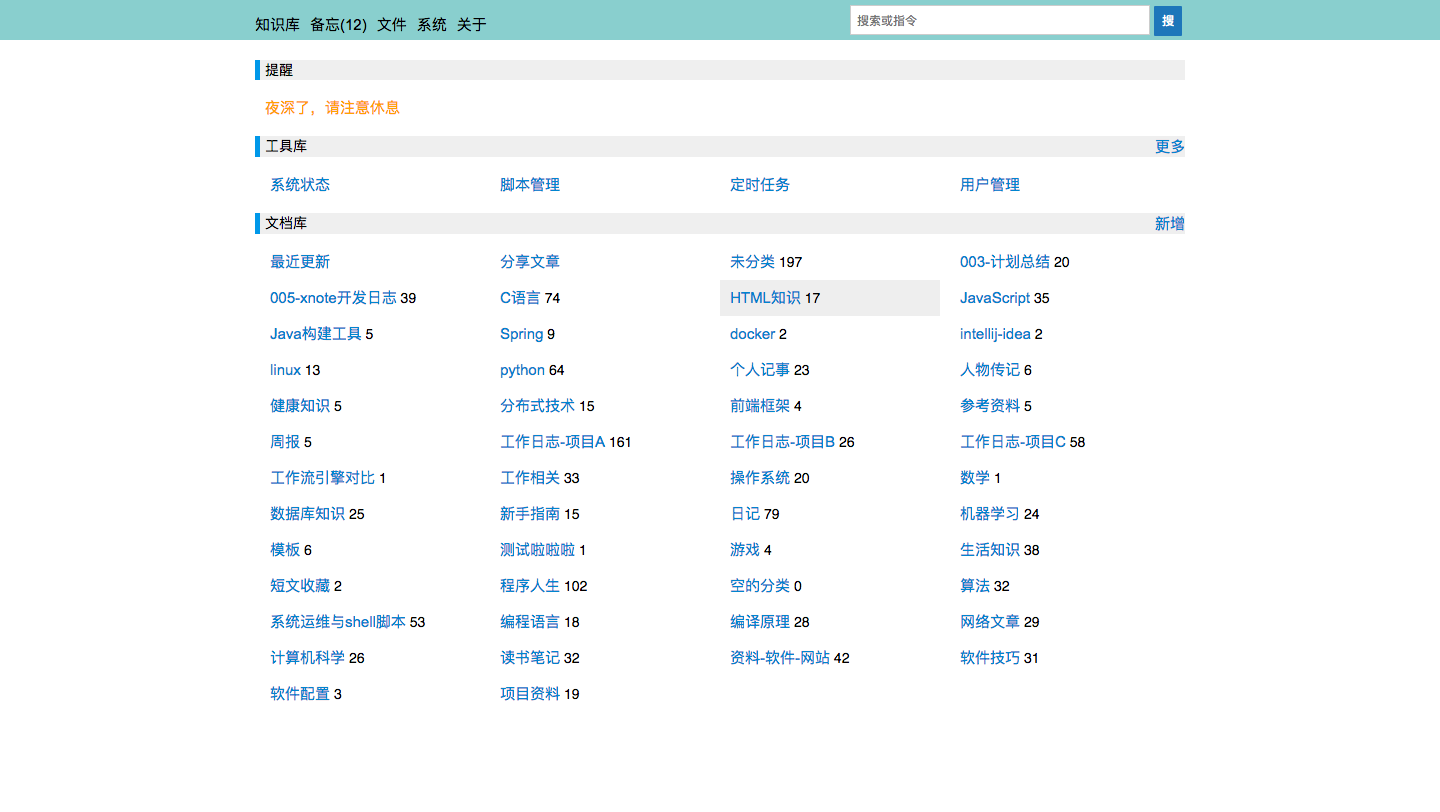
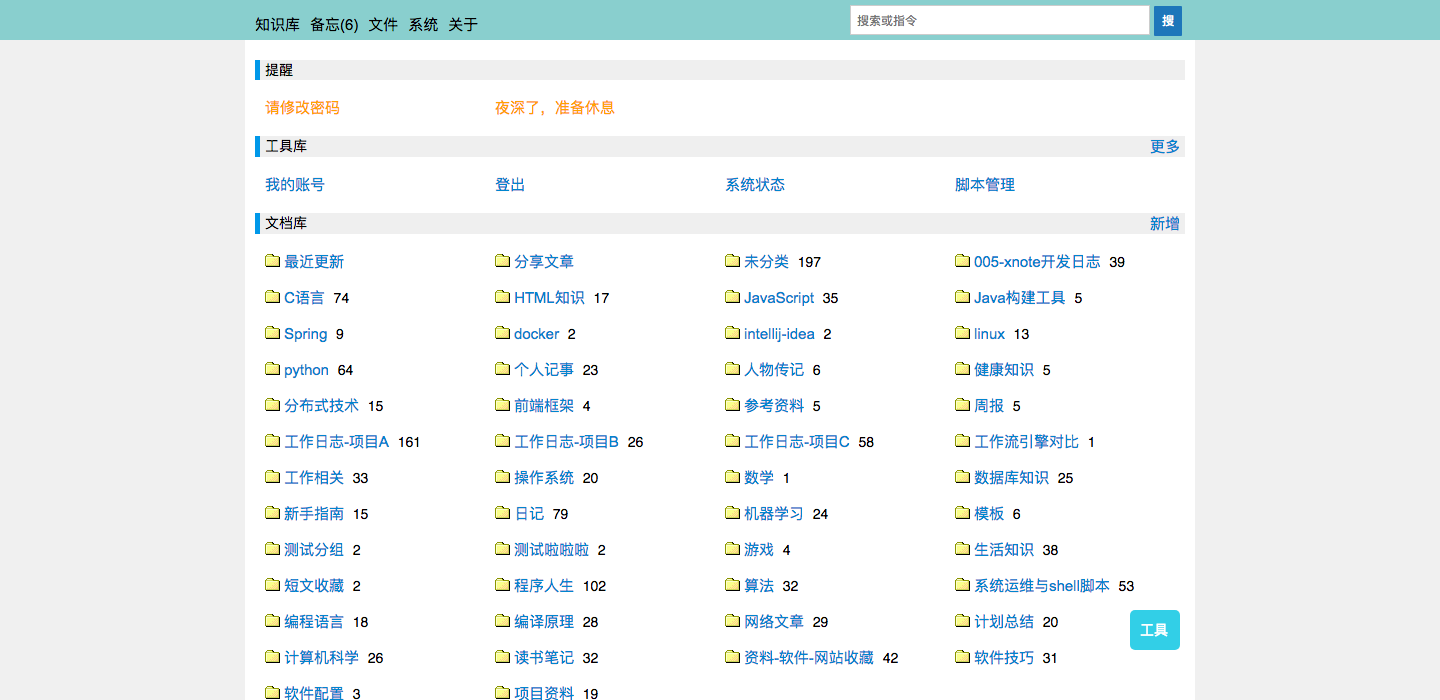
界面优化

diff --git a/handlers/tools/img2gray.html b/handlers/tools/img2gray.html
@@ -2,25 +2,27 @@
 
 {% block body %}
 
-<h3>图片处理</h3>
+    {% set title = "图片灰度化" %}
+    {% include "tools/base_title.html" %}
 
 <div class="col-md-12">
     <input id="file" type="file" onchange="handleFiles(this.files)" class="hide" />
     <input type="button" id="selectBtn" class="btn" value="选择图片"/>
     <input class="btn" id="rotateClockwise" type="button" value="顺时针旋转"/>
-    <input id="larger" type="button" class="btn" value="放大"/>
-    <input id="smaller" type="button" class="btn" value="缩小"/>
+    <input id="larger" type="button" class="btn" value="刷新"/>
     <div class="col-md-12 top-offset-1">
     <table class="table">
         <tr>
-            <th>大小</th>
-            <th>缩放</th>
+            <th>原始大小</th>
+            <th>宽度</th>
+            <th>高度</th>
             <th>灰度化</th>
             <th>旋转</th>
         </tr>
         <tr>
             <td id="imgSize"></td>
-            <td id="scale"></td>
+            <td><input id="width"></td>
+            <td><input id="height"></td>
             <td>灰度化<input type="checkbox" id="gray" ></td>
             <td id="rotate"></td>
         </tr>
@@ -93,25 +95,31 @@ var canvasRotate = 0;
 // var imageNatureWidth = 0;
 // var imageNatureHeight = 0;
 function repaint() {
-    convertOpt.gray = $("#gray")[0].checked;
-    var canvas = document.getElementById("myCanvas");    
-    var image = window.inputImage;
-    // var image = document.getElementById("imageSource");    
+    var newWidth = $("#width").val() - 0;
+    var newHeight = $("#height").val() - 0;
 
-    // var clientWidth = document.body.width;
-    // var clientHeight = clientWidth * 3 / 4;
-    // image.crossOrigin = "Anonymous";
-    
+    convertOpt.gray = $("#gray")[0].checked;
+    var canvas = $("#myCanvas")[0];    
+    var image = window.inputImage;
+    console.log(image.width, image.height);
+
+    if (newWidth <= 0 || newWidth == undefined) {
+        newWidth = image.width;
+    }
+    if (newHeight <= 0 || newHeight == undefined) {
+        newHeight = image.height;
+    }
+
     var resize = false;
     // get 2D render object    
     var context = canvas.getContext("2d");
 
-    canvas.width  = image.width * canvasScale;    
-    canvas.height = image.height * canvasScale;
+    canvas.width  = newWidth;
+    canvas.height = newHeight;
 
     if (window.canvasRotate % 180 != 0) {
-        canvas.width = image.height * canvasScale;
-        canvas.height = image.width * canvasScale;
+        canvas.width = newHeight;
+        canvas.height = newWidth;
         resize = true;
     }
 
@@ -125,8 +133,6 @@ function repaint() {
         context.drawImage(image, 0, 0, image.width, image.height, -canvas.width/2, -canvas.height/2, canvas.width, canvas.height);  
     }
     
-     
-    
     context.translate(0,0);
     if (convertOpt.gray) {    
         // 不能使用跨域图片，否则不能获取图片数据
@@ -138,7 +144,6 @@ function repaint() {
     }
 
     $("#rotate").text(convertOpt.rotate);
-    $("#scale").text(canvasScale.toFixed(2));
     $("#imgSize").text(inputImage.width+"x"+inputImage.height);
 };    
 

diff --git a/static/js/app.js b/static/js/app.js
@@ -32,10 +32,11 @@
     function createTitle() {
       var btn1 = $("<span>").text("Home").addClass("dialog-title-btn dialog-home-btn");
       var btn2 = $("<span>").text("Tools").addClass("dialog-title-btn dialog-tools-btn");
+      var btn3 = $("<span>").text("Refresh").addClass("dialog-title-btn dialog-refresh-btn");
 
       return $("<div>").addClass("dialog-title")
         .append(createCloseBtn())
-        .append(btn1).append(btn2);
+        .append(btn1).append(btn2).append(btn3);
     }
 
     function getBottomBot() {
@@ -89,6 +90,9 @@
       $("body").on("click", ".dialog-tools-btn", function () {
         $(".right-bot iframe").attr("src", "/fs_api/plugins");
       })
+      $("body").on("click", ".dialog-refresh-btn", function () {
+        $(".right-bot iframe")[0].contentWindow.location.reload();
+      })
     }
 
     function getRightBot() {
@@ -109,7 +113,7 @@
             "border": "solid 1px #ccc",
             "z-index": 50,
         }).append(createTitle())
-          .append(createIframe("/"))
+          .append(createIframe("/system/index"))
           .addClass("right-bot");
         rightBot.hide();
         $(document.body).append(rightBot);

diff --git a/handlers/tools/img_merge.html b/handlers/tools/img_merge.html
@@ -5,7 +5,9 @@
 <script type="text/javascript" src="/static/lib/vue/vue-2.2.6.min.js"></script>
 
 <div class="col-md-12">
-    <h3>图片合并</h3>
+    {% set title = "图片合并" %}
+    {% include "tools/base_title.html" %}
+
     <p>点击画布上的方块可以选择图片填充，选择多个图片依次水平往后填充, 编辑完成之后点击预览按钮可以获取去除背景和方格的图片</p>
     <p>设置列数和行数都为1可以用来调整图片大小</p>
 </div>

diff --git a/static/css/common.css b/static/css/common.css
@@ -3,7 +3,7 @@
 }
 
 body {
-    /*background-color: #f0f0f0;*/
+    background-color: #f0f0f0;
     /*font-family: "Open Sans Light",Helvetica,arial,sans-serif;*/
     font: 14px "微软雅黑", "Open Sans Light", Helvetica, "Arial Narrow", HELVETICA; 
     -webkit-text-size-adjust: 100%; 
@@ -403,6 +403,7 @@ li.menu-item:hover {
   overflow: auto;
   box-sizing: border-box;
   margin-left: 0px;
+  background-color: #fff;
   /*border: 1px solid #ccc;*/
 }
 

diff --git a/handlers/tools/img_split.html b/handlers/tools/img_split.html
@@ -4,7 +4,9 @@
 
 <script type="text/javascript" src="/static/lib/vue/vue-2.2.6.min.js"></script>
 
-<h3>图片拆分</h3>
+    {% set title = "图片拆分" %}
+    {% include "tools/base_title.html" %}
+
 <div id="app">
     <input type="file" name="file" id="file" value="选择图片" onchange="handleFiles(this.files)" class="hide" multiple="multiple">
     <div class="col-md-12">

diff --git a/handlers/tools/qrcode.html b/handlers/tools/qrcode.html
@@ -8,7 +8,9 @@
 {% block body %}
 
     <div>
-        <h3>生成二维码</h3>
+    {% set title = "生成二维码" %}
+    {% include "tools/base_title.html" %}
+
         <textarea id="qrcode_input" class="col-md-12" rows=5></textarea>
         <button id="generate">生成</button>
     </div>

diff --git a/handlers/system/modules_info.html b/handlers/system/modules_info.html
@@ -2,8 +2,10 @@
 
 {% block body %}
 
+    {% set title = "模块信息" %}
+    {% include "tools/base_title.html" %}
+
     <div class="col-md-12">
-        <h2>模块信息</h2>
         <h3>sys.path</h3>
         <table class="table">
             {% for p in sys.path %}

diff --git a/handlers/tools/base64.html b/handlers/tools/base64.html
@@ -5,7 +5,10 @@
 {% end %}
 {% block body %}
 
-<h3>Base64编解码</h3>
+    {% set title = "Base64编解码" %}
+    {% include "tools/base_title.html" %}
+
+
 <div class="col-md-6">
 <label>Input</label>
 <textarea id="input" class="col-md-12" rows=10></textarea>

diff --git a/xconfig.py b/xconfig.py
@@ -1,6 +1,6 @@
 # encoding=utf-8
 # @author xupingmao 
-# @modified 2018/05/11 23:01:37
+# @modified 2018/05/29 22:35:24
 
 '''
 xnote系统配置
@@ -322,42 +322,64 @@ def add_notice(user=None,
         link = '#'
     _notice_list.append(Storage(user=user, year=year, month=month, day=day, wday=wday, message=message, link=link))
 
+
+def create_tomorrow_filter(user):
+    tm = time.localtime(time.time() + 24 * 3600)
+    def tomorrow_filter(todo):
+        year  = tm.tm_year
+        month = tm.tm_mon
+        day  = tm.tm_mday
+        wday = tm.tm_wday + 1
+        if todo.day == None:
+            # 每天都提醒的不重复
+            return False
+        if todo.user != None and user != todo.user:
+            return False
+        if todo.year != None and todo.year != year:
+            return False
+        if todo.month != None and todo.month != month:
+            return False
+        if todo.day != None and todo.day != day:
+            return False
+        if todo.wday != None and todo.wday != wday:
+            return False
+        return True
+    return tomorrow_filter
+
+def create_filter(user):
+    tm = time.localtime()
+    def filter_handler(todo):
+        year  = tm.tm_year
+        month = tm.tm_mon
+        day  = tm.tm_mday
+        wday = tm.tm_wday + 1
+        if todo.user != None and user != todo.user:
+            return False
+        if todo.year != None and todo.year != year:
+            return False
+        if todo.month != None and todo.month != month:
+            return False
+        if todo.day != None and todo.day != day:
+            return False
+        if todo.wday != None and todo.wday != wday:
+            return False
+        return True
+    return filter_handler
+
 def get_notice_list(type='today', user=None):
     """
     获取通知列表,user不为空时通过它过滤
     - today 今天的通知
     - all 所有的通知
     """
-    def create_filter(tm):
-        def filter_handler(todo):
-            year  = tm.tm_year
-            month = tm.tm_mon
-            day  = tm.tm_mday
-            wday = tm.tm_wday + 1
-            if todo.user != None and user != todo.user:
-                return False
-            if todo.year != None and todo.year != year:
-                return False
-            if todo.month != None and todo.month != month:
-                return False
-            if todo.day != None and todo.day != day:
-                return False
-            if todo.wday != None and todo.wday != wday:
-                return False
-            return True
-        return filter_handler
 
     if type == "all":
         return _notice_list
 
-    day = 24 * 3600
-    today_filter = create_filter(time.localtime())
-    
     if type == 'today':
-        return list(filter(today_filter, _notice_list))
+        return list(filter(create_filter(user), _notice_list))
     if type == "tomorrow":
-        tomorrow_filter = create_filter(time.localtime(time.time() + day))
-        return list(filter(tomorrow_filter, _notice_list))
+        return list(filter(create_tomorrow_filter(user), _notice_list))
 
 def clear_notice_list():
     global _notice_list
